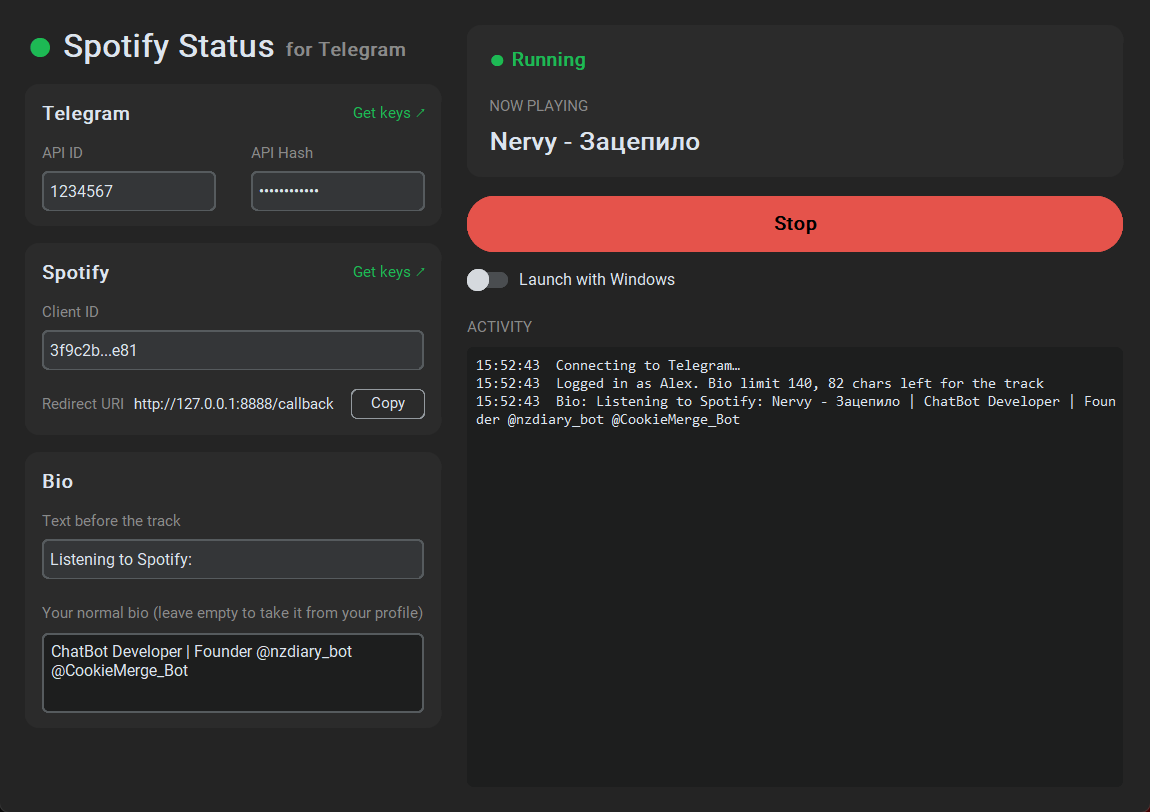
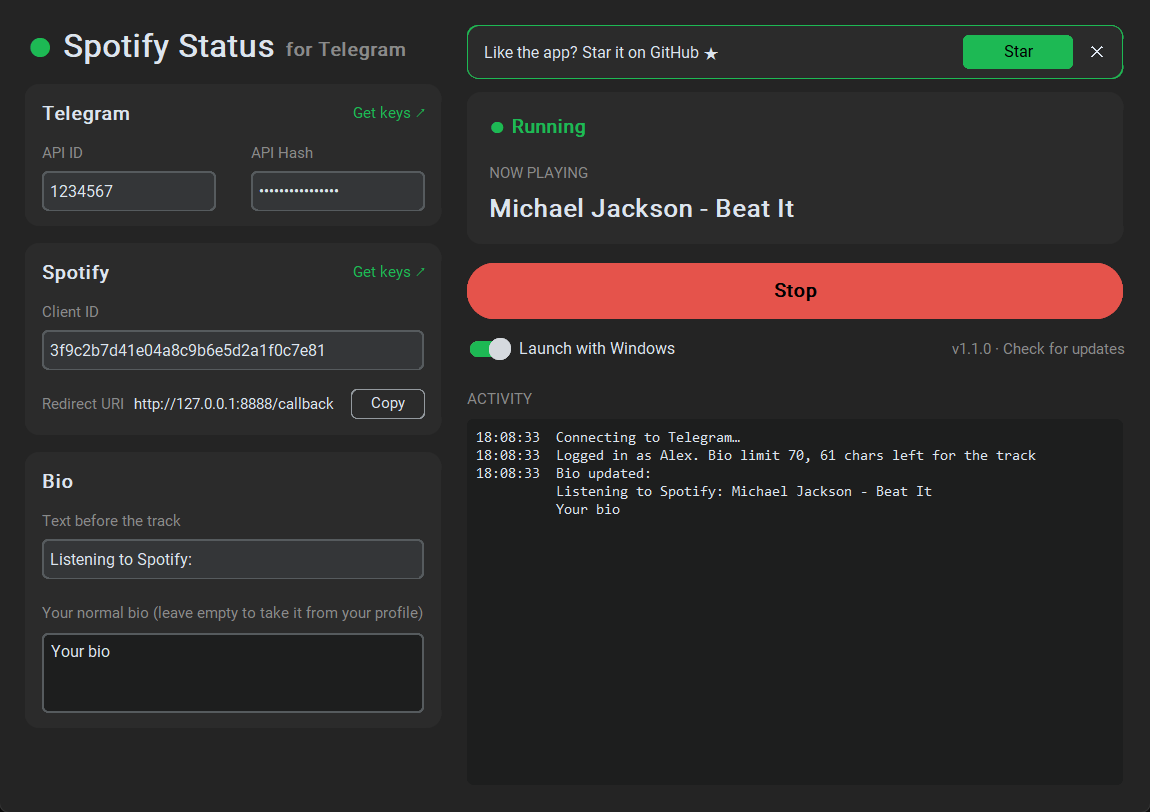
Use neutral sample data in tests, README and screenshot
Replace the author's real bio and track in the self-check, README
example and screenshot with "Your bio" / "Michael Jackson - Beat It",
and refresh the screenshot to show the current UI (star banner,
update link).

diff --git a/app.py b/app.py
@@ -695,14 +695,14 @@ class App:
 
 if __name__ == "__main__":
     if sys.argv[1:] == ["test"]:
-        base = "ChatBot Developer | Founder @nzdiary_bot @CookieMerge_Bot"
+        base = "Your bio"
         p = DEFAULTS["prefix"]
         assert build_bio(base, p, None, 140) == base
-        assert build_bio(base, p, "Nervy - Зацепило", 140) == p + "Nervy - Зацепило\n" + base
+        assert build_bio(base, p, "Michael Jackson - Beat It", 140) == p + "Michael Jackson - Beat It\n" + base
         assert len(build_bio(base, p, "x" * 300, 140)) == 140
-        assert len(build_bio(base, p, "Nervy - Зацепило", 70)) <= 70
-        assert build_bio("", p, "Nervy - Зацепило", 70) == p + "Nervy - Зацепило"
-        assert strip_track_line(p + "Nervy - Зацепило\n" + base, p) == base
+        assert len(build_bio(base, p, "Michael Jackson - Beat It", 70)) <= 70
+        assert build_bio("", p, "Michael Jackson - Beat It", 70) == p + "Michael Jackson - Beat It"
+        assert strip_track_line(p + "Michael Jackson - Beat It\n" + base, p) == base
         assert strip_track_line(base, p) == base
         assert parse_version("v1.10.0") > parse_version("v1.9.2") > parse_version("1.9")
         print("ok")

diff --git a/README.md b/README.md
@@ -3,8 +3,8 @@
 Shows the track you're playing on Spotify as the first line of your Telegram bio, Discord-style:
 
 ```
-Listening to Spotify: Nervy - Зацепило
-ChatBot Developer | Founder @nzdiary_bot
+Listening to Spotify: Michael Jackson - Beat It
+Your bio
 ```
 
 When the music is paused or the app is closed, your normal bio comes back.
